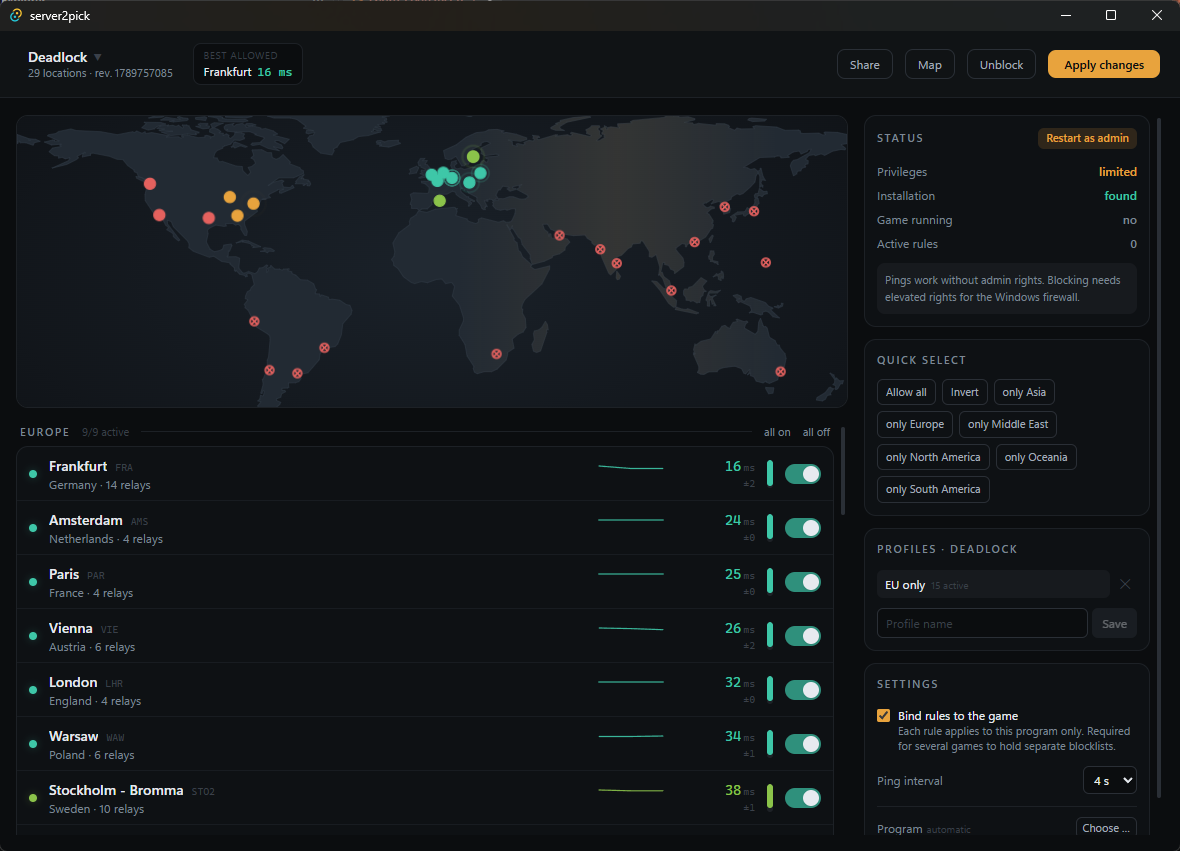
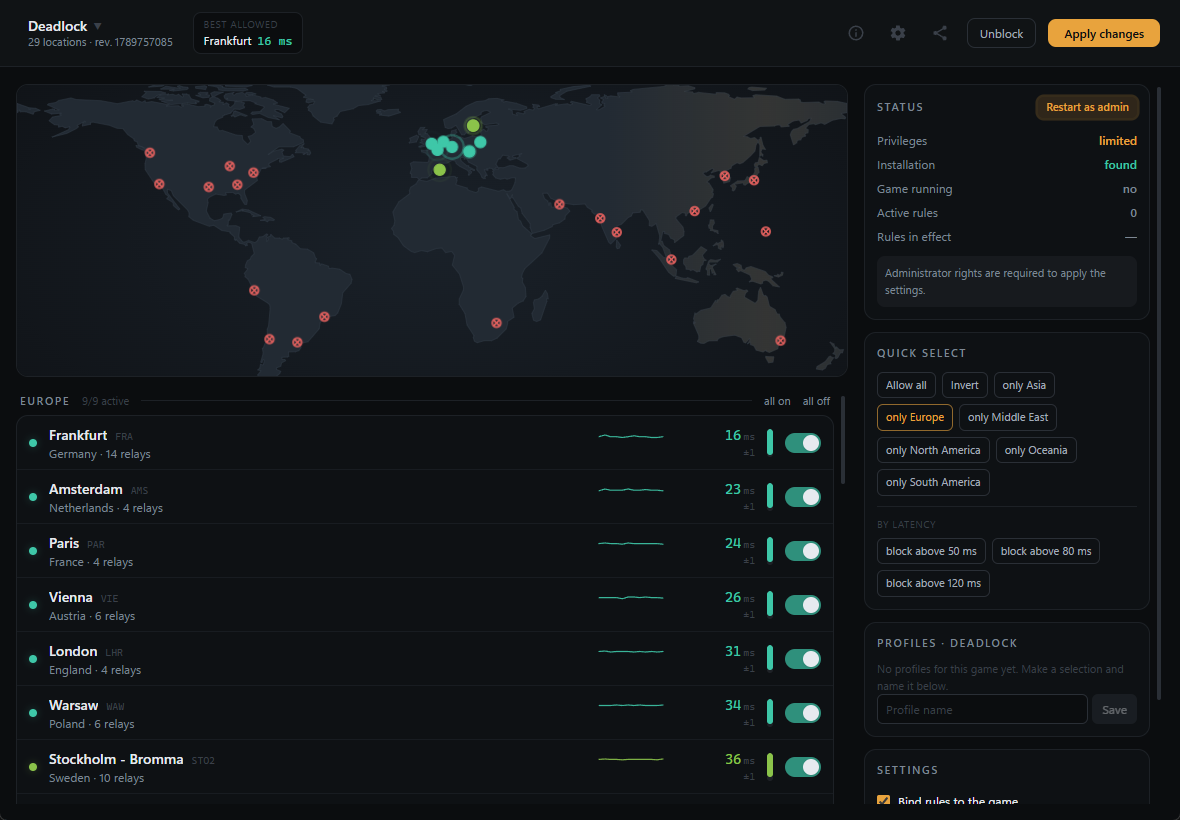
Update to the README and a new screenshot

diff --git a/README.md b/README.md
@@ -1,12 +1,21 @@
 # server2pick
 
-Choose which Valve data centres your matches are allowed to use — per game,
+Choose which Valve data centres your matches are allowed to use. Per game,
 with live ping.
+
+### [⬇ Download the installer](../../releases/latest)
+
+[![Downloads](https://img.shields.io/github/downloads/kschnieders/server2pick/total?label=downloads&color=3ec7a8)](../../releases)
+[![Latest release](https://img.shields.io/github/v/release/kschnieders/server2pick?label=latest&color=e8a33d)](../../releases/latest)
+
+**You need:** Windows 10 or 11 · one of the supported games · administrator
+rights the first time you block something. Nothing else. No account, no
+driver, no background service.
 
 ![server2pick](docs/screenshot.png)
 
 Supports **Deadlock**, **Counter-Strike 2**, **Dota 2** and **Team Fortress 2**.
-Windows only. Interface in English and German.
+Interface in English, German, Spanish and Russian.
 
 ## What it does
 
